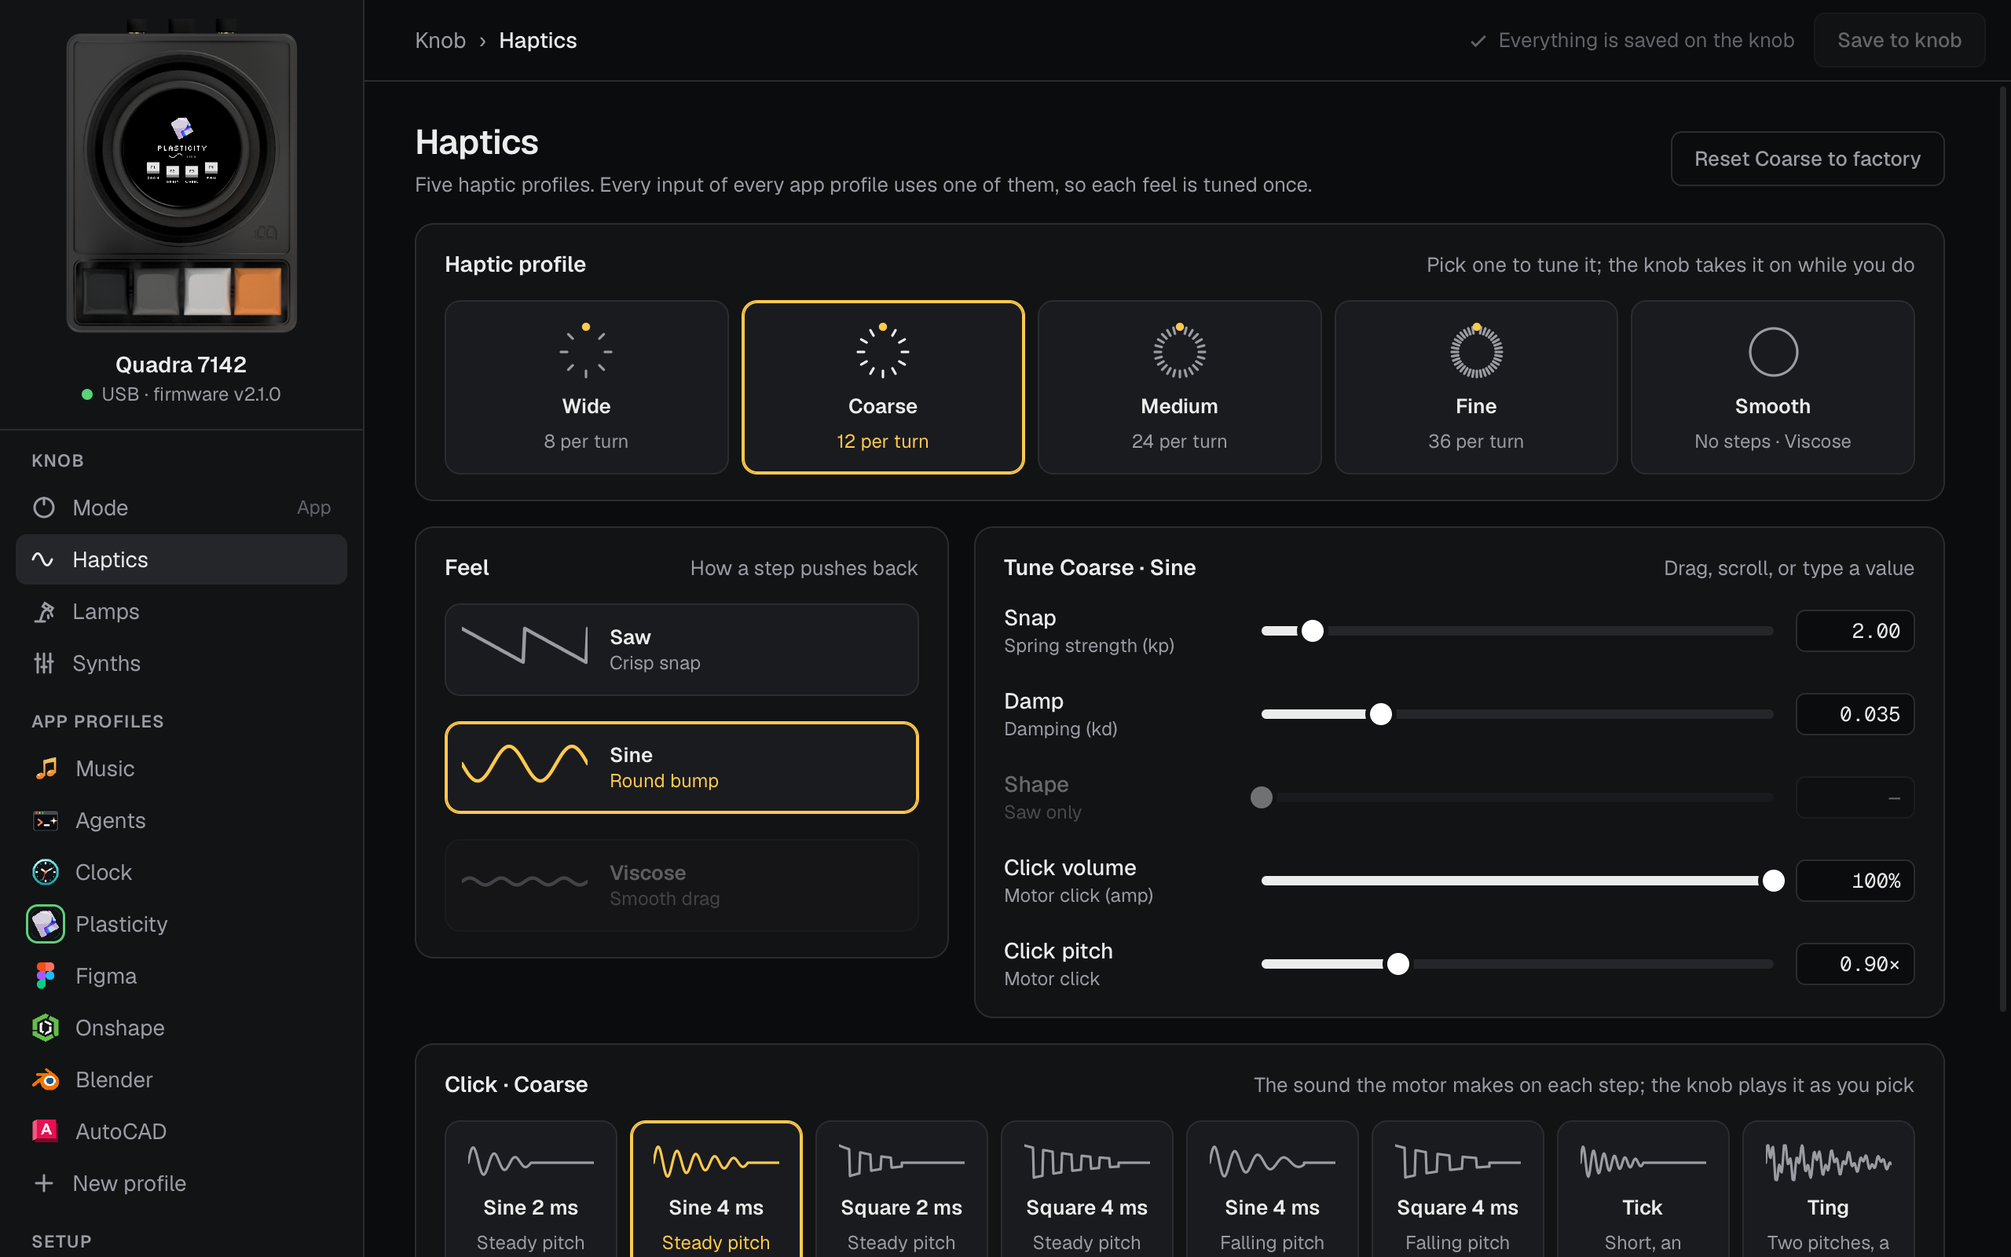
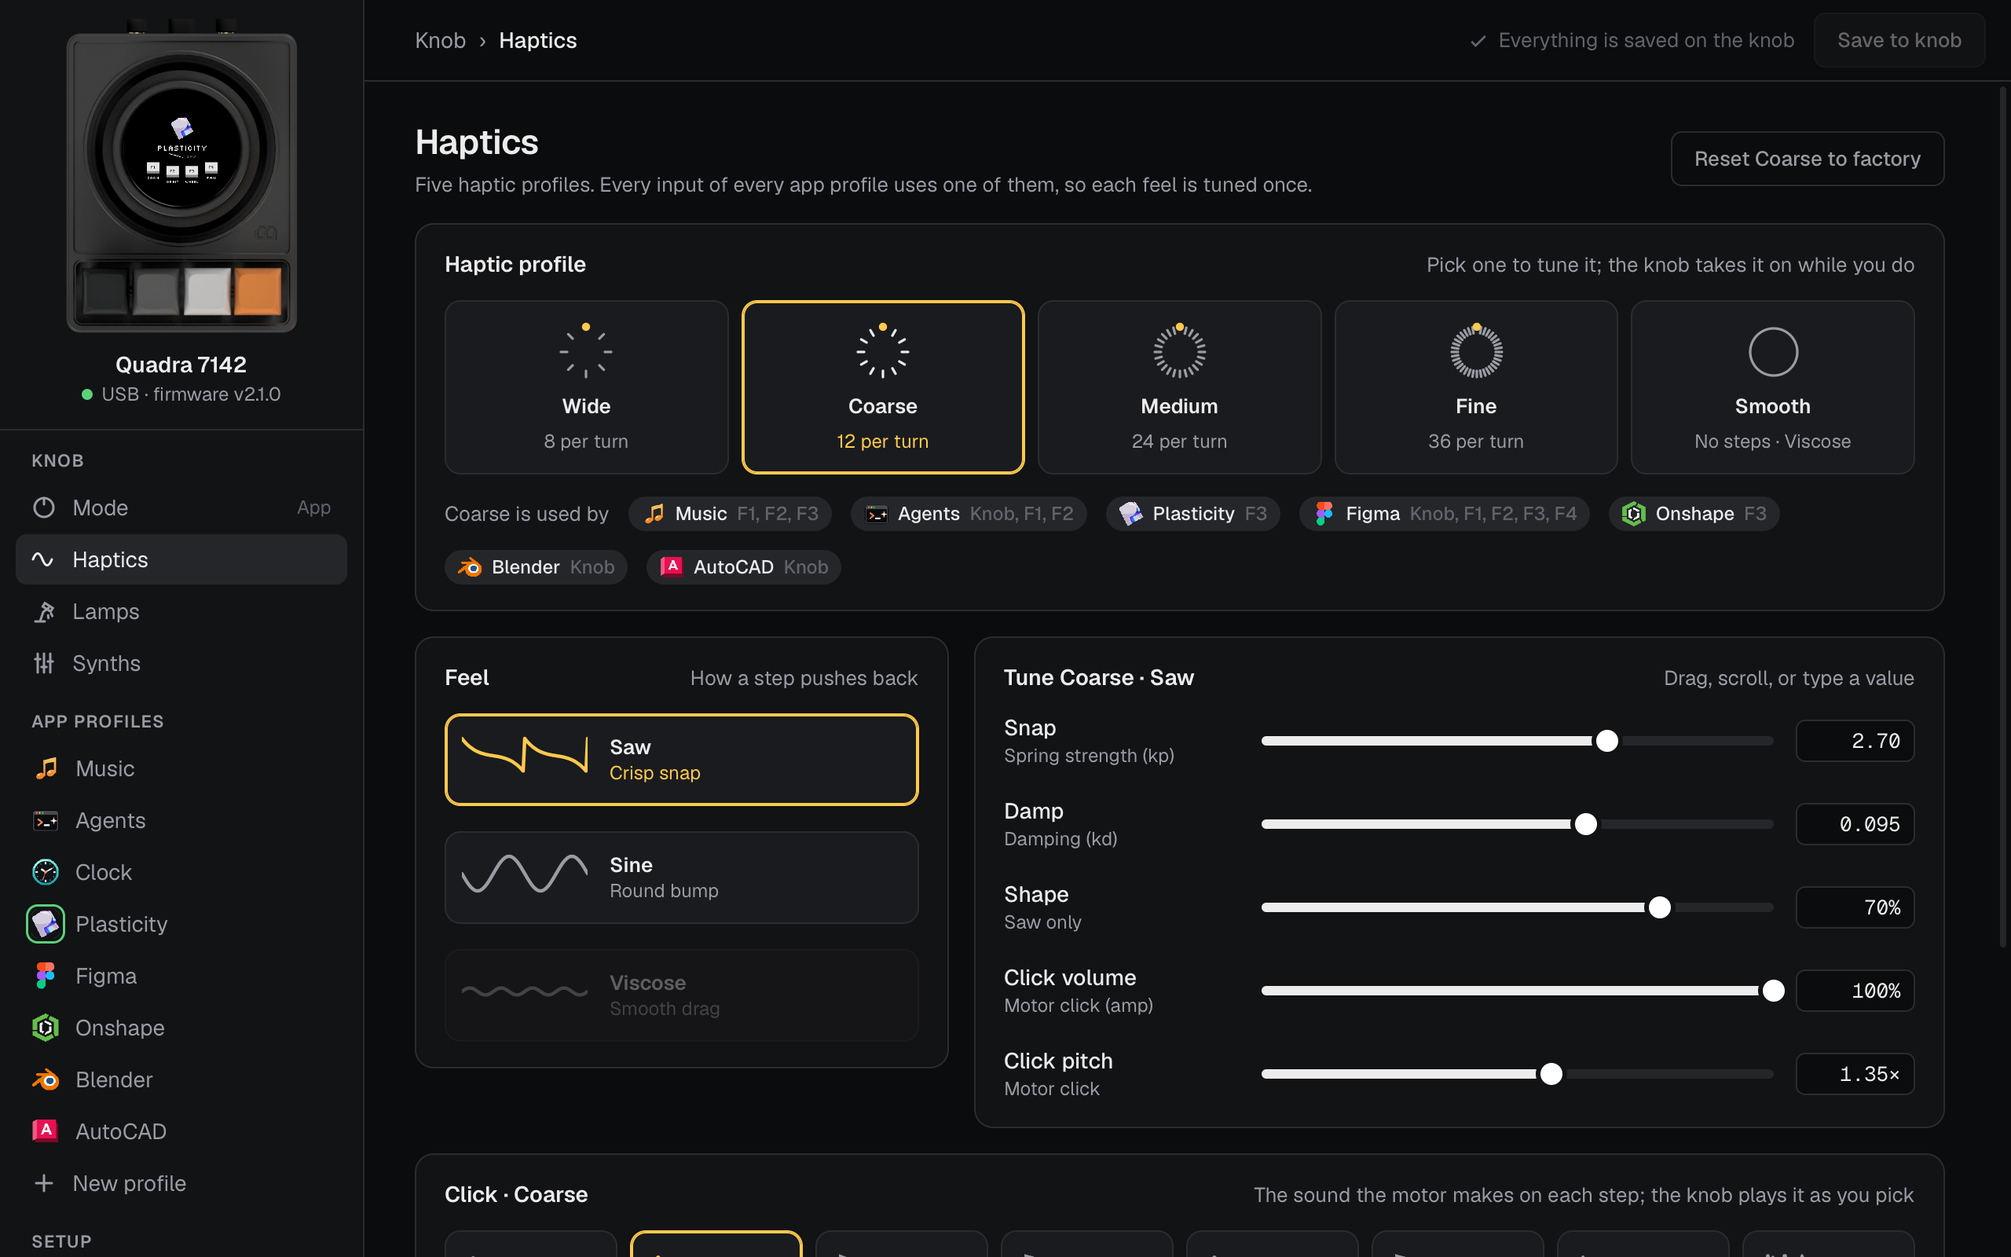
Companion: Haptics shows who uses a haptic profile; sharp app pictures
Under the five haptic profiles, used by lists each app profile with the
inputs that turn with the one picked, and Mouse or Keys mode. A profile's
icon shows the picture it was imported from (kept on this computer) or
bundled artwork for a built-in, where it isn't drawn as the knob draws it.

diff --git a/companion/src/pages/Haptics.tsx b/companion/src/pages/Haptics.tsx
@@ -2,11 +2,17 @@
 // own values per feel, inside limits the knob sets, so it can't be tuned into instability.
 // Live on the knob while you drag; Save (or F2 on the knob) keeps them.
 
-import { ClickWaves, Feel, HapticProfiles, Limits, Set, type SetId } from "../proto";
-import { device, use } from "../store";
+import { useEffect } from "preact/hooks";
+import { SLOTS, type SlotName } from "../profile";
+import { ClickWaves, Feel, HapticProfiles, HidType, Limits, ProfileFlag, Set, type SetId } from "../proto";
+import { device, href, use } from "../store";
 import { Box, Card, ClickWave, Dial, PageHead, Slider, Wave } from "../ui/controls";
+import { ProfileIcon } from "../ui/icons";
 import { titleCase } from "../ui/shell";
 import { throttled } from "../ui/throttle";
+import { loadUsage, usage, usageLoading, usageRev } from "../usedby";
+import { TITLE, turns } from "./profile/Keys";
+import { inputHaptic } from "./profile/session";
 
 const send = throttled((id: SetId, v: number) => device.set(id, v));
 
@@ -16,9 +22,31 @@ const FEELS = [
   { value: Feel.VISCOSE, name: "Viscose", sub: "Smooth drag" },
 ];
 
+// The app profiles with an input that turns with haptic profile `h`. An input left on "Mode
+// default" turns with App mode's own, which the knob reports only while App is the mode.
+function usedBy(h: number, appDefault: number) {
+  return device.profiles.filter(Boolean).flatMap((p) => {
+    const json = usage(p.id);
+    const inputs = SLOTS.filter((n) => {
+      const a = json?.slots?.[n];
+      if (!turns(a?.kind)) return false;
+      const own = inputHaptic(a);
+      return (own < 0 ? appDefault : own) === h;
+    });
+    return inputs.length ? [{ p, inputs: inputs as SlotName[] }] : [];
+  });
+}
+
 export function HapticsPage() {
-  use("settings");
+  use("settings", "profiles");
   const s = device.settings!;
+  // Every profile's inputs, read once and again when the list changes.
+  const listed = device.profiles.filter(Boolean).map((p) => `${p.id}|${p.index}|${p.flags}|${p.name}`).join();
+  useEffect(() => void loadUsage(), [listed]);
+  void usageRev.value;
+  const mode = s.hidType === HidType.MOUSE ? "Mouse mode" : s.hidType === HidType.KEYBOARD ? "Keys mode" : "";
+  const users = usedBy(s.hapticProfile, s.hidType === HidType.APP ? s.modeHaptic : -2);
+  const byMode = mode !== "" && s.modeHaptic === s.hapticProfile;
   const bit = (id: number) => ((s.dirty >> id) & 1) === 1;
   const prof = HapticProfiles[s.hapticProfile];
   const name = titleCase(prof?.name ?? "");
@@ -39,6 +67,18 @@ export function HapticsPage() {
               <span class="sub">{h.detents ? `${h.detents} per turn` : "No steps · Viscose"}</span>
             </Card>
           ))}
+        </div>
+        <div class="line usedby">
+          <span class="hint">{name} is used by</span>
+          {users.map(({ p, inputs }) => (
+            <a class="badge" href={href({ page: "profile", id: p.id, tab: "keys", input: inputs[0] })}>
+              <ProfileIcon icon={p.icon} name={p.name} size={16} id={p.id} builtin={(p.flags & ProfileFlag.BUILTIN) !== 0} />
+              {titleCase(p.name)}
+              <span class="faint">{inputs.map((n) => TITLE[n]).join(", ")}</span>
+            </a>
+          ))}
+          {byMode && <span class="badge">{mode}</span>}
+          {users.length === 0 && !byMode && <span class="hint faint">{usageLoading.value ? "reading the profiles…" : "no app profile"}</span>}
         </div>
       </Box>
       <div class="split">

diff --git a/companion/src/appart.ts b/companion/src/appart.ts
@@ -1,0 +1,59 @@
+// A sharper picture for a profile's icon than the knob's 48 pixels, where this computer has
+// one: the picture an icon was imported from (kept here when it is imported), or artwork
+// bundled for a built-in profile (src/assets/apps/<profile id>.png, .svg or .webp). The knob
+// only ever holds the 48 and 24 pixel versions, so everything here is by the knob's icon: an
+// imported picture is shown only while the knob still has the icon made from it.
+
+import { b64ToBytes, rgb565ToImage } from "./profile";
+
+const BUNDLED = Object.fromEntries(
+  Object.entries(import.meta.glob("./assets/apps/*.{png,svg,webp}", { eager: true, query: "?url", import: "default" }) as Record<string, string>).map(([path, url]) => [
+    path.replace(/^.*\/|\.[^.]+$/g, ""),
+    url,
+  ]),
+);
+
+const KEY = "quadra.icon.";
+const SIZE = 256; // the kept picture's longer side
+const hashes = new WeakMap<ImageData, string>();
+
+// FNV-1a over the icon's pixels: tells one icon from another, nothing more.
+function hash(img: ImageData): string {
+  let h = hashes.get(img);
+  if (h === undefined) {
+    let x = 0x811c9dc5;
+    for (let i = 0; i < img.data.length; i++) x = Math.imul(x ^ img.data[i], 0x01000193);
+    h = (x >>> 0).toString(16);
+    hashes.set(img, h);
+  }
+  return h;
+}
+
+// The picture for a profile's icon, or null: the knob's pixels are all there is.
+export function artFor(id: string, icon: ImageData | null, builtin: boolean): string | null {
+  if (icon) {
+    try {
+      const kept = JSON.parse(localStorage.getItem(KEY + id) ?? "null") as { h: string; url: string } | null;
+      if (kept?.h === hash(icon)) return kept.url;
+    } catch {
+      // no storage here, or not ours: the bundled one, or the pixels
+    }
+  }
+  return builtin ? (BUNDLED[id] ?? null) : null;
+}
+
+// An icon was imported from `src`: keep the picture, by the 48 pixel icon made from it.
+export function keepOriginal(id: string, src: CanvasImageSource & { width: number; height: number }, icon48: string) {
+  const k = Math.min(1, SIZE / Math.max(src.width, src.height));
+  const c = document.createElement("canvas");
+  c.width = Math.max(1, Math.round(src.width * k));
+  c.height = Math.max(1, Math.round(src.height * k));
+  const ctx = c.getContext("2d")!;
+  ctx.imageSmoothingQuality = "high";
+  ctx.drawImage(src, 0, 0, c.width, c.height);
+  try {
+    localStorage.setItem(KEY + id, JSON.stringify({ h: hash(rgb565ToImage(b64ToBytes(icon48), 48)), url: c.toDataURL("image/png") }));
+  } catch {
+    // storage full or off: the knob's pixels show, as before
+  }
+}

diff --git a/companion/src/pages/profile/Profile.tsx b/companion/src/pages/profile/Profile.tsx
@@ -10,6 +10,7 @@ import { duplicateProfile, MAX_PROFILES } from "../../profiles";
 import { device, editorDirty, go, href, inUse, use, type ProfileTab } from "../../store";
 import { Box, Confirm, Row, Seg, SubTabs, Text } from "../../ui/controls";
 import { drawMainScreen } from "../../ui/draw";
+import { keepOriginal } from "../../appart";
 import { ProfileIcon } from "../../ui/icons";
 import { titleCase } from "../../ui/shell";
 import { origin } from "../Mode";
@@ -51,7 +52,7 @@ function Editor(p: { id: string; tab: ProfileTab; input: string }) {
   return (
     <>
       <div class="ph">
-        <ProfileIcon icon={icon} name={entry.name} size={48} />
+        <ProfileIcon icon={icon} name={entry.name} size={48} id={entry.id} builtin={(entry.flags & ProfileFlag.BUILTIN) !== 0} />
         <div class="t">
           <div class="line" style={{ gap: "8px" }}>
             <span class="title">{titleCase(draft?.name ?? entry.name)}</span>
@@ -117,7 +118,7 @@ function GeneralTab(x: { s: Session; p: ProfileJson; flags: number; icon: ImageD
             <button class="btn sm" onClick={() => file.current?.click()}>
               Import image…
             </button>
-            <span class="hint">Any picture, fitted to 48 and 24 pixels</span>
+            <span class="hint">Any picture, fitted to 48 and 24 pixels for the knob; this app keeps the picture for its own lists</span>
             <input
               ref={file}
               type="file"
@@ -131,6 +132,7 @@ function GeneralTab(x: { s: Session; p: ProfileJson; flags: number; icon: ImageD
                   const bmp = await createImageBitmap(f);
                   p.icon48 = imageToIcon(bmp, 48);
                   p.icon24 = imageToIcon(bmp, 24);
+                  keepOriginal(p.id, bmp, p.icon48);
                   s.touch();
                 } catch {
                   s.status.value = { msg: "That file isn't a picture this app can read", bad: true };

diff --git a/companion/src/usedby.ts b/companion/src/usedby.ts
@@ -1,0 +1,52 @@
+// Every app profile's JSON, read from the knob once and kept, for Haptics' "Used by": which
+// inputs of which profiles turn with a haptic profile. A profile is read again when its entry
+// in the list changes (saved, reverted, renamed) or after an edit here was sent (forgetUsage).
+
+import { signal } from "@preact/signals";
+import type { ProfileJson } from "./profile";
+import { device } from "./store";
+
+const cache = new Map<string, { key: string; json: ProfileJson }>();
+let running = false;
+let again = false;
+
+export const usageRev = signal(0); // bumped when a profile is in (or gone): readers re-render
+export const usageLoading = signal(false);
+
+export function usage(id: string): ProfileJson | undefined {
+  return cache.get(id)?.json;
+}
+
+export function forgetUsage(id: string) {
+  cache.delete(id);
+}
+
+export async function loadUsage() {
+  if (running) {
+    again = true;
+    return;
+  }
+  running = true;
+  usageLoading.value = true;
+  try {
+    do {
+      again = false;
+      const list = device.profiles.filter(Boolean);
+      for (const id of [...cache.keys()]) if (!list.some((p) => p.id === id)) cache.delete(id);
+      for (const p of list) {
+        const key = `${p.index}|${p.flags}|${p.name}`;
+        if (cache.get(p.id)?.key === key) continue;
+        try {
+          cache.set(p.id, { key, json: await device.readProfile(p.index) });
+          usageRev.value++;
+        } catch {
+          // not connected any more, or the list moved under us: the next call reads it
+        }
+      }
+    } while (again);
+  } finally {
+    running = false;
+    usageLoading.value = false;
+    usageRev.value++;
+  }
+}

diff --git a/companion/src/ui/icons.tsx b/companion/src/ui/icons.tsx
@@ -1,17 +1,21 @@
-// A profile's 48x48 icon (from the knob, or a draft's), at any size: whole multiples stay
-// crisp (pixelated); smaller is a thumbnail. Black is see-through. No icon: its initial on a
-// dark tile.
+// A profile's icon at any size. With `id`, a sharper picture where this computer has one
+// (appart.ts: the imported original, or a built-in's bundled artwork). Otherwise the knob's
+// 48x48 pixels: whole multiples stay crisp (pixelated), smaller is a thumbnail, and black is
+// see-through. No icon: its initial on a dark tile.
 
 import { useEffect, useRef } from "preact/hooks";
+import { artFor } from "../appart";
 import { cls } from "./controls";
 
-export function ProfileIcon(p: { icon: ImageData | null; name: string; size: number; ring?: boolean }) {
+export function ProfileIcon(p: { icon: ImageData | null; name: string; size: number; ring?: boolean; id?: string; builtin?: boolean }) {
   const ref = useRef<HTMLCanvasElement>(null);
+  const art = p.id ? artFor(p.id, p.icon, !!p.builtin) : null;
   useEffect(() => {
     const c = ref.current;
     if (c && p.icon) c.getContext("2d")!.putImageData(p.icon, 0, 0);
-  }, [p.icon]);
+  }, [p.icon, art]);
   const style = { width: `${p.size}px`, height: `${p.size}px` };
+  if (art) return <img src={art} class={cls("picon", "art", p.ring && "inuse")} style={style} alt="" draggable={false} />;
   if (!p.icon)
     return (
       <span class={cls("picon", "blank", p.ring && "inuse")} style={{ ...style, fontSize: `${Math.round(p.size * 0.5)}px` }} aria-hidden="true">

diff --git a/companion/src/style.css b/companion/src/style.css
@@ -79,6 +79,7 @@ input, select { user-select: text; -webkit-user-select: text; }
 /* a profile's icon */
 .picon { border-radius: 4px; flex-shrink: 0; display: inline-block; }
 .picon.px { image-rendering: pixelated; }
+.picon.art { object-fit: contain; }
 .picon.blank { display: inline-flex; align-items: center; justify-content: center; background: var(--s3); color: var(--muted); font-weight: 600; }
 .picon.inuse { box-shadow: 0 0 0 2px var(--s1), 0 0 0 3.5px var(--green); }
 
@@ -150,6 +151,9 @@ select.field { appearance: none; -webkit-appearance: none; padding-right: 28px; 
 
 .tag { font-size: 11px; font-weight: 500; padding: 2px 7px; border-radius: 5px; background: var(--s3); color: var(--muted); white-space: nowrap; }
 .badge { font-size: 12px; font-weight: 500; padding: 3px 8px; border-radius: 99px; background: var(--s3); color: var(--muted); white-space: nowrap; display: inline-flex; align-items: center; gap: 6px; }
+a.badge { color: var(--text); }
+a.badge:hover { text-decoration: none; background: var(--line); }
+.usedby { gap: 8px; }
 .badge.warn { background: var(--amberbg); color: var(--amber); }
 .badge.ok { background: var(--greenbg); color: var(--green); }
 

diff --git a/companion/src/pages/profile/Keys.tsx b/companion/src/pages/profile/Keys.tsx
@@ -9,7 +9,7 @@ import { Bits, Box, Card, cls, Dial, KeyField, Num, Row, Seg, Text } from "../..
 import { titleCase } from "../../ui/shell";
 import { inputHaptic, setInputHaptic, SMOOTH, type Session } from "./session";
 
-const TITLE: Record<SlotName, string> = { knob: "Knob", f1: "F1", f2: "F2", f3: "F3", f4: "F4" };
+export const TITLE: Record<SlotName, string> = { knob: "Knob", f1: "F1", f2: "F2", f3: "F3", f4: "F4" };
 const NOTE: Record<SlotName, string> = {
   knob: "Turning it, no key held",
   f1: "Hold F1 and turn, or tap it",
@@ -35,7 +35,7 @@ const MOD_OPTS = [
   { bit: Mod.GUI, label: "⌘ Command" },
 ];
 const mediaName = (u: number | undefined) => titleCase(MEDIA_USAGES.find((m) => m.usage === u)?.label ?? "");
-const turns = (k: Kind | undefined) => k !== undefined && k !== "none" && k !== "tap";
+export const turns = (k: Kind | undefined) => k !== undefined && k !== "none" && k !== "tap";
 
 // A line about what an input does, for its tile.
 function summary(p: ProfileJson, name: SlotName): string {

diff --git a/companion/src/pages/Mode.tsx b/companion/src/pages/Mode.tsx
@@ -49,7 +49,7 @@ export function ModePage() {
             <div class="pgrid">
               {device.profiles.filter(Boolean).map((p) => (
                 <Card on={p.index === using} dirty={p.index === using && bit(Set.PROFILE)} onClick={() => device.set(Set.PROFILE, p.index)}>
-                  <ProfileIcon icon={p.icon} name={p.name} size={48} />
+                  <ProfileIcon icon={p.icon} name={p.name} size={48} id={p.id} builtin={(p.flags & ProfileFlag.BUILTIN) !== 0} />
                   <span class="nm">{titleCase(p.name)}</span>
                   <span class={p.flags & ProfileFlag.LIVE ? "sub amber" : "sub"}>{p.flags & ProfileFlag.LIVE ? "Not saved" : origin(p.flags)}</span>
                 </Card>

diff --git a/companion/src/ui/shell.tsx b/companion/src/ui/shell.tsx
@@ -64,7 +64,7 @@ function Sidebar() {
               nav(
                 { page: "profile", id: p.id, tab: "general", input: "knob" },
                 titleCase(p.name),
-                <ProfileIcon icon={p.icon} name={p.name} size={18} ring={p.index === using} />,
+                <ProfileIcon icon={p.icon} name={p.name} size={18} ring={p.index === using} id={p.id} builtin={(p.flags & ProfileFlag.BUILTIN) !== 0} />,
                 live(p.id) ? <i class="chg" /> : p.flags & ProfileFlag.BUILTIN ? null : <span class="val">Yours</span>,
                 r.page === "profile" && r.id === p.id,
               ),

diff --git a/companion/src/pages/profile/session.ts b/companion/src/pages/profile/session.ts
@@ -7,6 +7,7 @@ import { DeviceError } from "../../device";
 import { HapticProfiles } from "../../proto";
 import { problem, type Action, type ProfileJson } from "../../profile";
 import { device, editorDirty, openEditor, route } from "../../store";
+import { forgetUsage } from "../../usedby";
 
 const APPLY_MS = 350;
 
@@ -61,6 +62,7 @@ export class Session {
     this.say("Sending…");
     try {
       await device.uploadProfile(p, false);
+      forgetUsage(this.id);
       this.sent = rev;
       editorDirty.value = this.sent !== this.edits;
       this.say("Live on the knob");

diff --git a/companion/docs/COMPANION.md b/companion/docs/COMPANION.md
@@ -249,11 +249,16 @@ only, and needs the Quadra app. What the synth sends back goes to the knob, whic
 
 ## 7. Haptics
 
-<img src="app-haptics.png" width="720" alt="Haptics: the five haptic profiles, the feel cards and the tuning sliders">
+<img src="app-haptics.png" width="720" alt="Haptics: the five haptic profiles with the app profiles that use the one picked, the feel cards and the tuning sliders">
 
 A **haptic profile** is a complete feel: how far apart the steps are, how a step pushes back,
 and how strongly. There are five, and everything uses them: the modes, and each input of each
 app profile. Tune one here and it changes everywhere it's used.
+
+Under the five, **used by** lists where the one you picked is in use: each app profile with
+the inputs that turn with it (Figma · Knob, F1), and Mouse or Keys mode when that is the
+current mode. Click a profile to open that input. An input left on Mode default counts for
+App mode's own haptic profile, while App is the mode.
 
 | Haptic profile | Steps per turn |
 |---|---|
@@ -318,7 +323,7 @@ A profile has four tabs.
 | Field | What it is |
 |---|---|
 | **Name** | Up to 15 characters |
-| **Icon** | **Import image…** takes any picture and makes the 48 px and 24 px icons the knob draws |
+| **Icon** | **Import image…** takes any picture and makes the 48 px and 24 px icons the knob draws. The app keeps the picture on this computer and shows it, sharp, in its own lists; another computer shows the knob's pixels |
 | **Key labels** | The words under F1–F4 on the knob's screen, up to 7 characters each |
 | **Main screen** | The middle of the knob's screen: the **Action name**, or a **3D shape** (cube, pyramid or octa, in three styles) that moves as you turn |
 

diff --git a/NanoDepsidf/docs/PIXEL_ART.md b/NanoDepsidf/docs/PIXEL_ART.md
@@ -241,6 +241,11 @@ sizes. The pixel rules above apply only where it shows **the knob itself**.
   `image-rendering: pixelated`; smaller only as a thumbnail, e.g. the sidebar's; black is
   see-through, as on the device, so no black tile shows behind them), and the idle
   word field (Silkscreen).
+- **A profile as an app** (the sidebar, Mode's cards, a profile's header, Haptics' used by)
+  may show a sharp picture in place of the pixels: the picture its icon was imported from,
+  kept on that computer, or artwork for a built-in in `companion/src/assets/apps/<id>.png`
+  (`appart.ts`). Where the icon is shown as the knob draws it (General's Icon row, the
+  preview) it stays pixels.
 - **The device picture** (`companion/src/assets/device.png`) is a rendered photo of the
   hardware and the one non-pixel image; the sidebar shows it small, with the knob's screen
   drawn on its glass. The app doesn't stream the knob's screen or LEDs.
